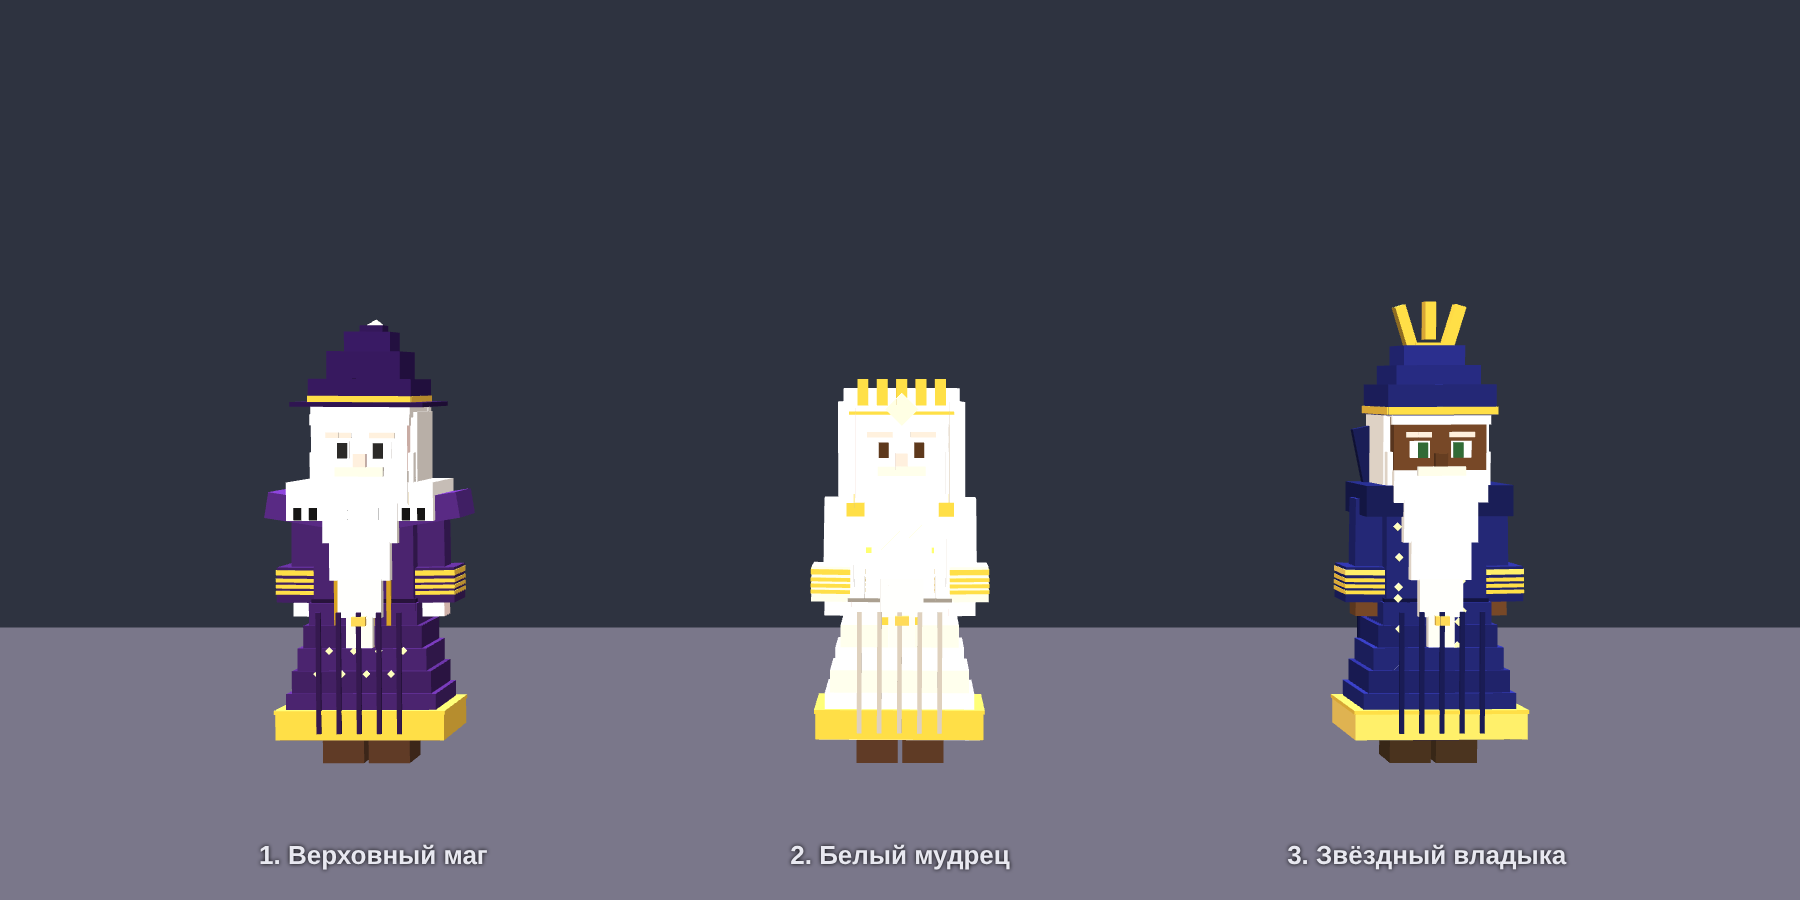
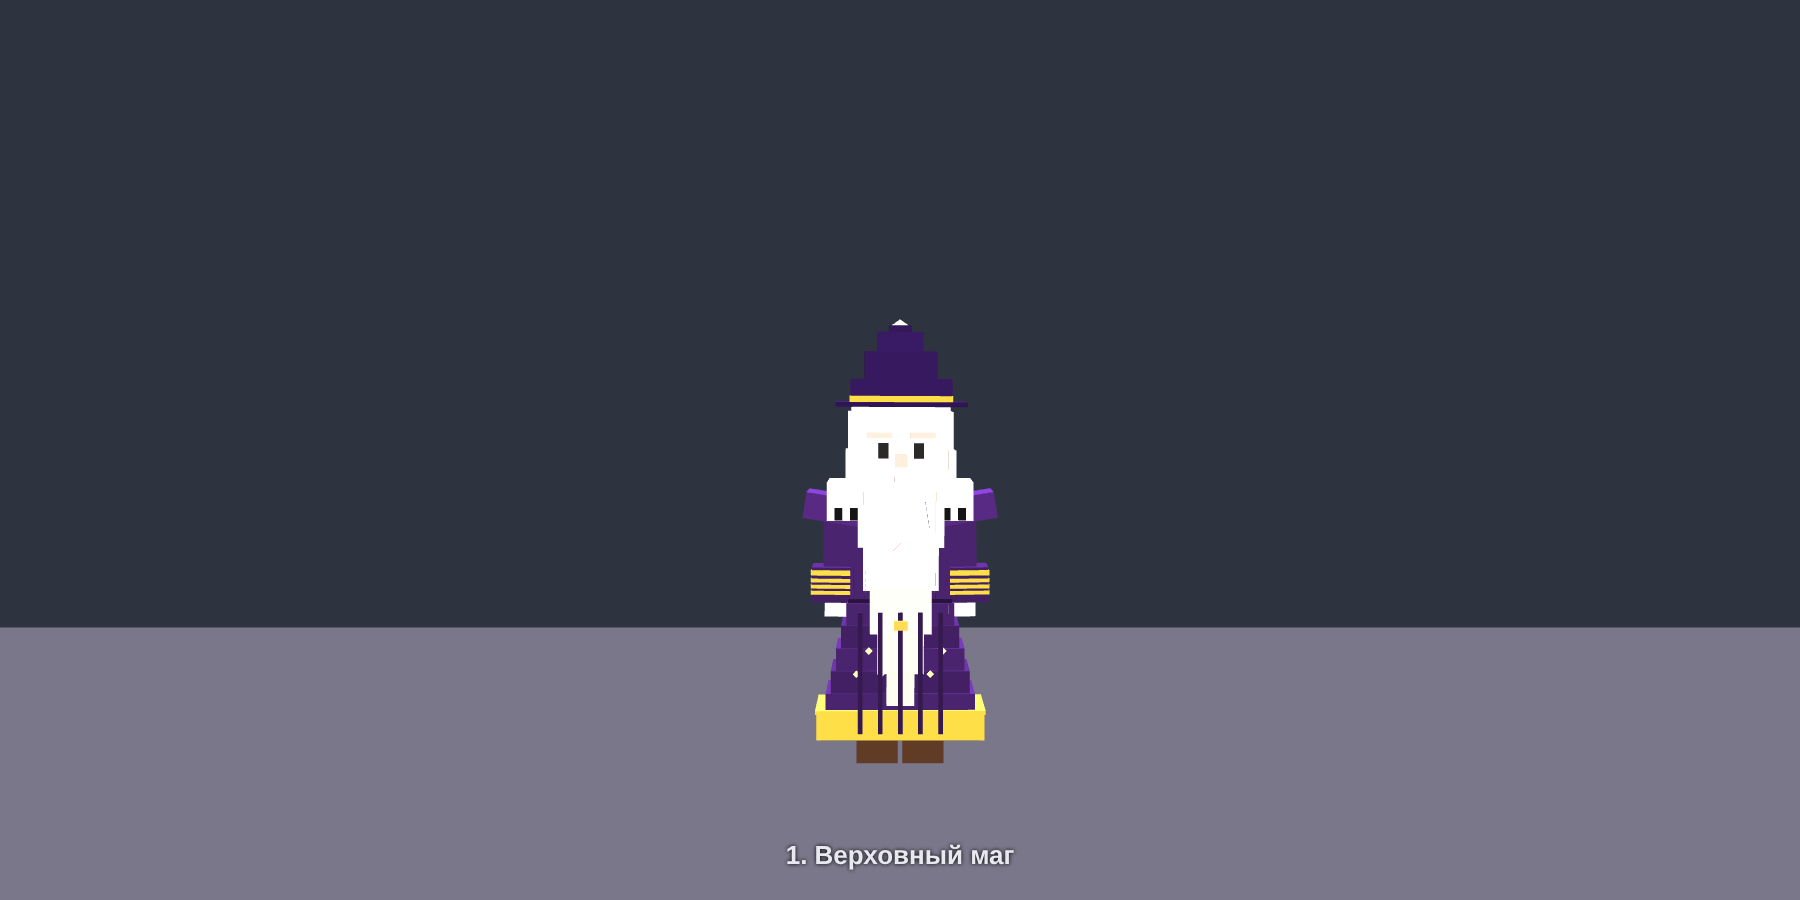
Башня: ученики в четырёх мантиях с короткими рукавами, глава — Верховный маг с большой бородой старца
Claude-Session: https://claude.ai/code/session_01Mpy7cpNdw8Aqy5B2AHYZqb

diff --git a/src/entities/VillagerModel.js b/src/entities/VillagerModel.js
@@ -26,7 +26,7 @@ import { ARCHETYPES, archetypeOf, bodyLayer, newLayer } from './Charisma.js';
 import * as THREE from 'three';
 import { FarShape } from '../core/FarShape.js';
 import { OUTFIT_KINDS, OUTFIT_ROLES, outfitLook, outfitBody, outfitSleeve, outfitHeadwear } from './VillagerOutfits.js';
-import { uniformBody, uniformSleeve, uniformHeadwear } from './TowerUniforms.js'; // (a PREVIEW of the tower's uniforms: L.uniform is set only by tools/tower-uniforms-screenshots.mjs for now)
+import { uniformLook, uniformBody, uniformSleeve, uniformHeadwear } from './TowerUniforms.js'; // (a PREVIEW of the tower's uniforms: L.uniform is set only by tools/tower-uniforms-screenshots.mjs for now)
 import { SKIN_TONES } from './Appearance.js';
 import { GAITS, styleOf, gaitPose, wizardPose, idleShift } from './MoveStyle.js';
 import { slopeLean } from '../game/HillWay.js';
@@ -328,6 +328,9 @@ function wizardLook(L, r, pick) {
     else if (role === 'student') L.beard = 'none';
     // (the wanderers, the settlements' folk and a hamlet's wizard wear one of five different costumes — VillagerOutfits.js; the tower's own keep the one uniform robe)
     if (OUTFIT_ROLES.has(role)) outfitLook(L, pick(OUTFIT_KINDS), pick);
+    // (the tower: the students wear one of four uniforms with short rolled sleeves — the «vest and school robe» was not chosen; the Master — the High Mage's mantle; the author, 05.11)
+    if (role === 'student') { uniformLook(L, pick(['u1', 'u3', 'u4', 'u5'])); L.sleeves = 'rolled'; }
+    else if (role === 'master') { uniformLook(L, 'm1'); L.hairColor = GREY_HAIR; }
 }
 
 // ==================================================================== parts
@@ -456,15 +459,16 @@ function headBoxes(L) {
             b(B, 0.1, 0.55, 0.8, -0.62, 0.35, -0.15, bc); b(B, 0.1, 0.55, 0.8, 0.62, 0.35, -0.15, bc);
             b(B, 0.62, 0.12, 0.08, 0, 0.38, -0.67, shade(bc, 0.9));
         } else if (L.beard === 'sage') {
-            // the Master's beard (as Dumbledore's): white, broad at the cheeks, down past the chest to the belt
-            b(B, 1.22, 0.42, 0.12, 0, 0.18, -0.6, bc);
-            b(B, 0.96, 0.55, 0.14, 0, -0.27, -0.6, bc);
-            b(B, 0.78, 0.5, 0.14, 0, -0.78, -0.62, bc);
-            b(B, 0.56, 0.5, 0.14, 0, -1.26, -0.64, shade(bc, 0.97));
-            b(B, 0.34, 0.4, 0.12, 0, -1.7, -0.66, shade(bc, 0.94));
-            b(B, 0.18, 0.12, 0.13, 0, -1.55, -0.72, 0xd8b04a); // (a little gold clasp near its end)
-            b(B, 0.1, 0.55, 0.8, -0.62, 0.35, -0.15, bc); b(B, 0.1, 0.55, 0.8, 0.62, 0.35, -0.15, bc);
-            b(B, 0.62, 0.12, 0.08, 0, 0.38, -0.67, shade(bc, 0.9));
+            // the Master's beard — a great old sage's: white, thick and broad at the cheeks, a full moustache, long side whiskers, flowing in tiers down past the belt to the knees
+            b(B, 1.3, 0.46, 0.14, 0, 0.18, -0.6, bc);
+            b(B, 1.12, 0.6, 0.16, 0, -0.3, -0.61, bc);
+            b(B, 0.98, 0.6, 0.17, 0, -0.86, -0.63, shade(bc, 0.98));
+            b(B, 0.8, 0.6, 0.17, 0, -1.42, -0.65, shade(bc, 0.96));
+            b(B, 0.6, 0.55, 0.16, 0, -1.96, -0.67, shade(bc, 0.94));
+            b(B, 0.36, 0.45, 0.14, 0, -2.42, -0.68, shade(bc, 0.92));
+            for (const sx of [-1, 1]) { b(B, 0.1, 0.9, 0.9, sx * 0.67, 0.2, -0.12, bc); b(B, 0.12, 0.6, 0.2, sx * 0.5, -0.3, -0.62, shade(bc, 1.03)); b(B, 0.34, 0.14, 0.2, sx * 0.26, 0.32, -0.7, bc, 0, 0, sx * -0.25); }
+            b(B, 0.78, 0.16, 0.2, 0, 0.36, -0.7, shade(bc, 1.04)); // (the moustache)
+            b(B, 0.18, 0.12, 0.17, 0, -1.6, -0.76, 0xd8b04a); // (a little gold clasp)
         } else if (L.beard === 'blackbeard') {
             // Captain Black Moustache: a great black beard down onto the chest, plaited at the end with red
             // ribbons, and the moustache that gave him his name — thick, curled up at both ends

diff --git a/src/entities/TowerUniforms.js b/src/entities/TowerUniforms.js
@@ -46,7 +46,7 @@ export function uniformBody(L, B) {
     const top = -0.6, h = (top - S.hem) / S.N;
     bx(B, 1.3, 1.5, 0.9, 0, 0.04, 0, rc);
     for (let i = 0; i < S.N; i++) { const t = (i + 0.5) / S.N; bx(B, 1.34 + t * S.flare, h + 0.02, 0.96 + t * S.flare * 0.55, 0, top - (i + 0.5) * h, 0, i % 2 ? shade(rc, 0.9) : rc); }
-    for (let q = -2; q <= 2; q++) bx(B, 0.06, (top - S.hem) * 0.9, 0.04, q * 0.26, (top + S.hem) / 2, -(0.52 + S.flare * 0.27), shade(rc, 0.72));
+    for (let q = -2; q <= 2; q++) if (k[0] !== 'm' || Math.abs(q) === 2) bx(B, 0.06, (top - S.hem) * 0.9, 0.04, q * 0.26, (top + S.hem) / 2, -(0.52 + S.flare * 0.27), shade(rc, 0.72));
     const hb = k[0] === 'm' ? 0.34 : 0.2, wb = 1.34 + S.flare + 0.04, db = 0.96 + S.flare * 0.55 + 0.04;
     bx(B, wb, hb, db, 0, S.hem + hb / 2, 0, k === 'm2' ? GOLD : tr);
     bx(B, wb + 0.03, 0.05, db + 0.03, 0, S.hem + hb + 0.02, 0, k === 'u2' ? 0xffffff : GOLD);
@@ -105,6 +105,7 @@ export function uniformBody(L, B) {
 /** Sleeves: a cuff in the trim colour, rank stripes, and the uniform's own sleeve. */
 export function uniformSleeve(L, B) {
     const k = L.uniform, rc = L.dressColor, tr = L.trim;
+    if (L.sleeves === 'rolled') { bx(B, 0.46, 0.07, 0.46, 0, -0.43, 0, tr); return; } // (a short rolled sleeve: only a thin trim band at the elbow)
     if (k === 'u5') { bx(B, 0.46, 0.5, 0.46, 0, -0.5, 0, shade(rc, 0.95)); bx(B, 0.44, 0.1, 0.44, 0, -0.76, 0, shade(rc, 0.8)); return; } // rolled sleeves
     if (k === 'u2') { bx(B, 0.46, 0.14, 0.46, 0, -0.94, 0, 0xf2efe6); return; }
     bx(B, k[0] === 'm' ? 0.7 : 0.58, k[0] === 'm' ? 0.46 : 0.3, k[0] === 'm' ? 0.7 : 0.58, 0, -0.92, 0, shade(rc, 0.9)); bx(B, k[0] === 'm' ? 0.72 : 0.6, 0.07, k[0] === 'm' ? 0.72 : 0.6, 0, -0.76, 0, tr);
